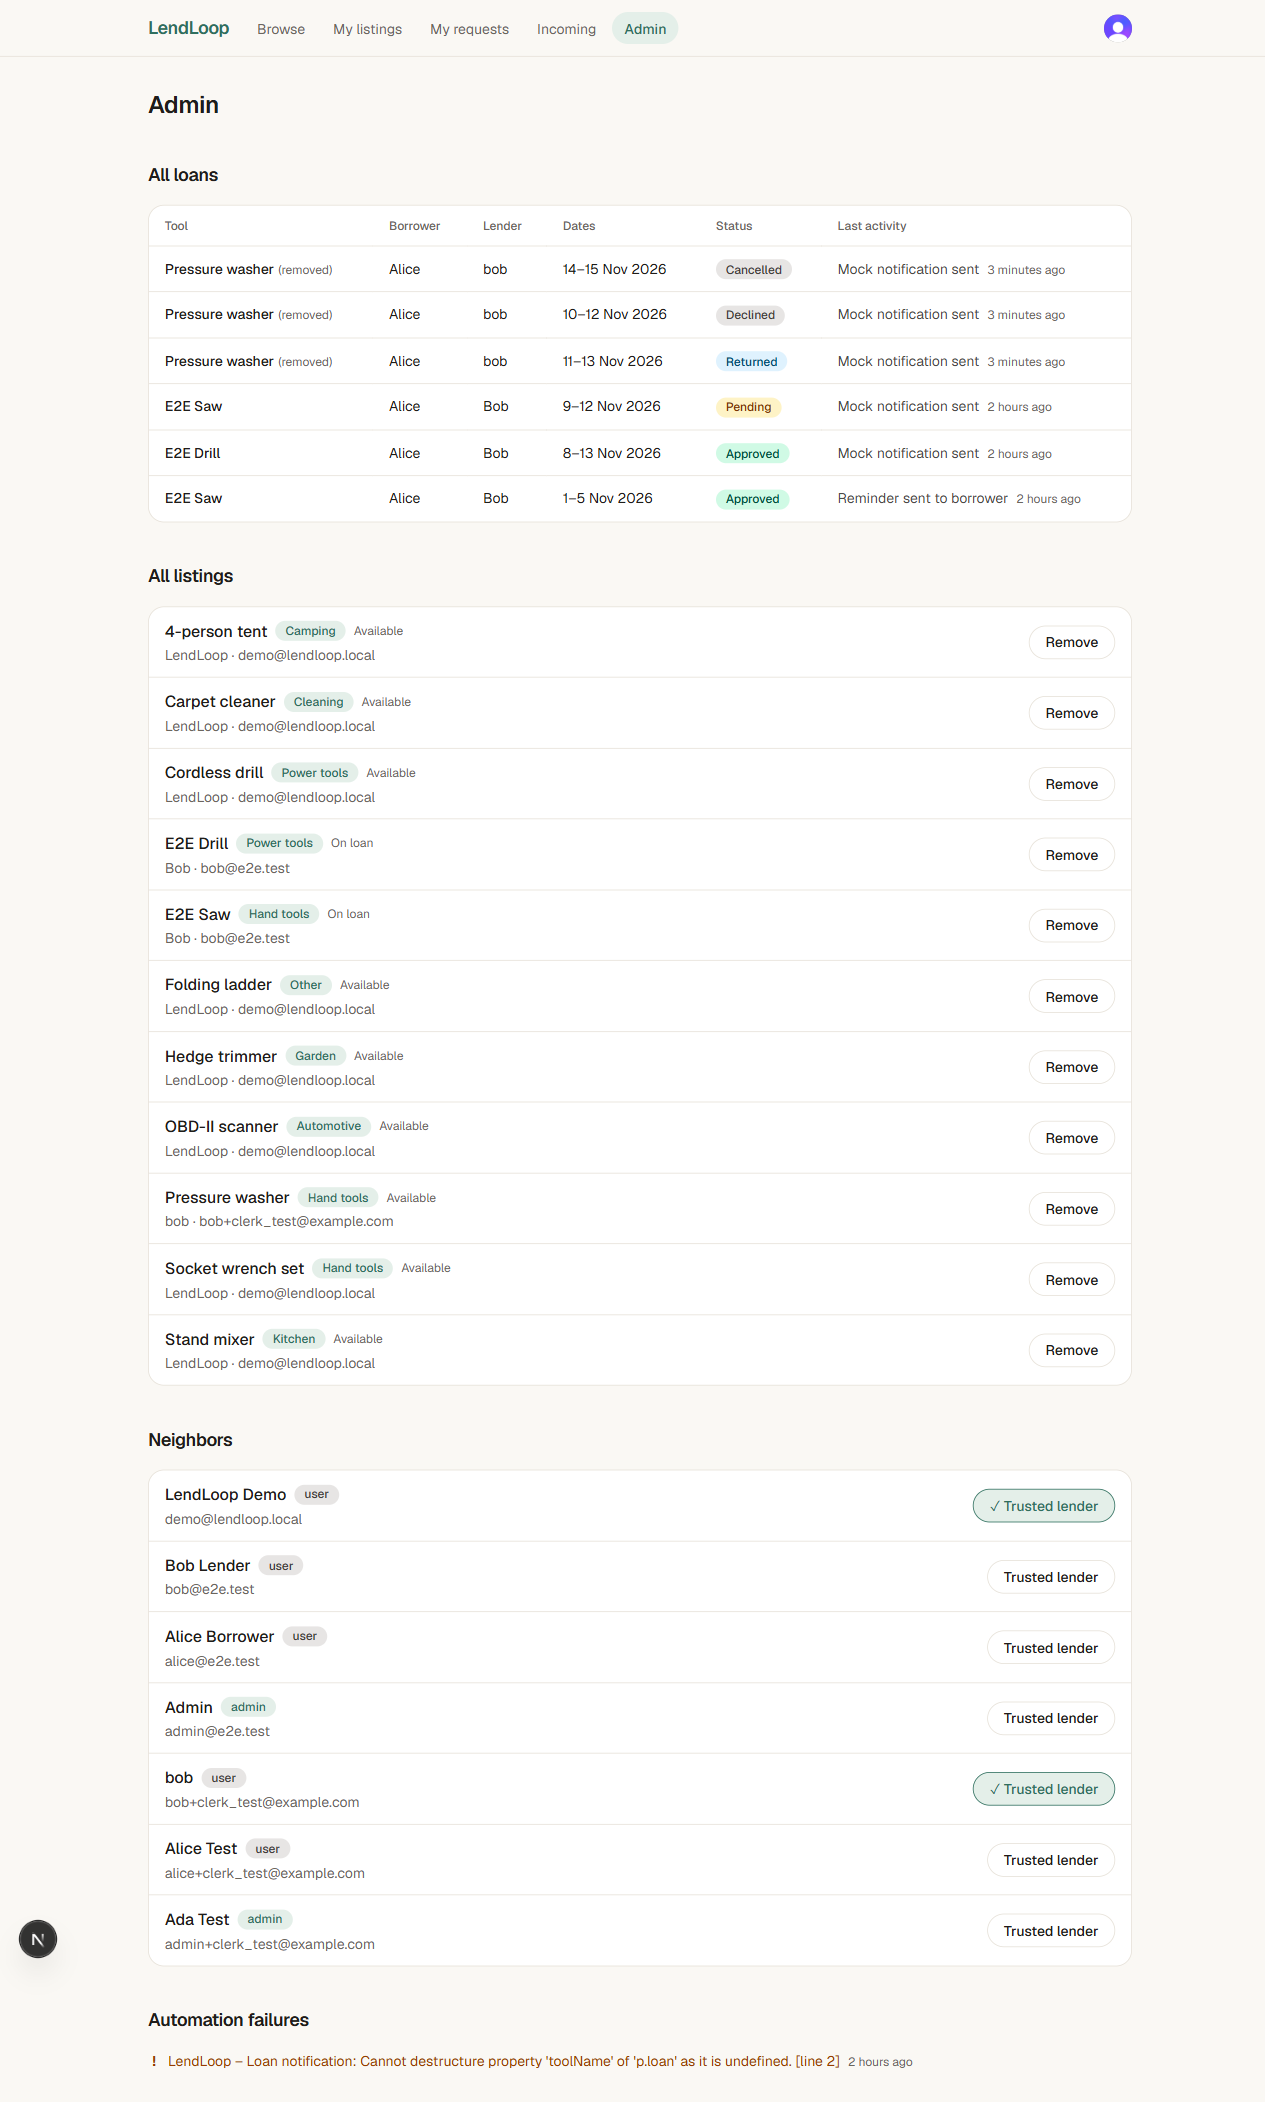
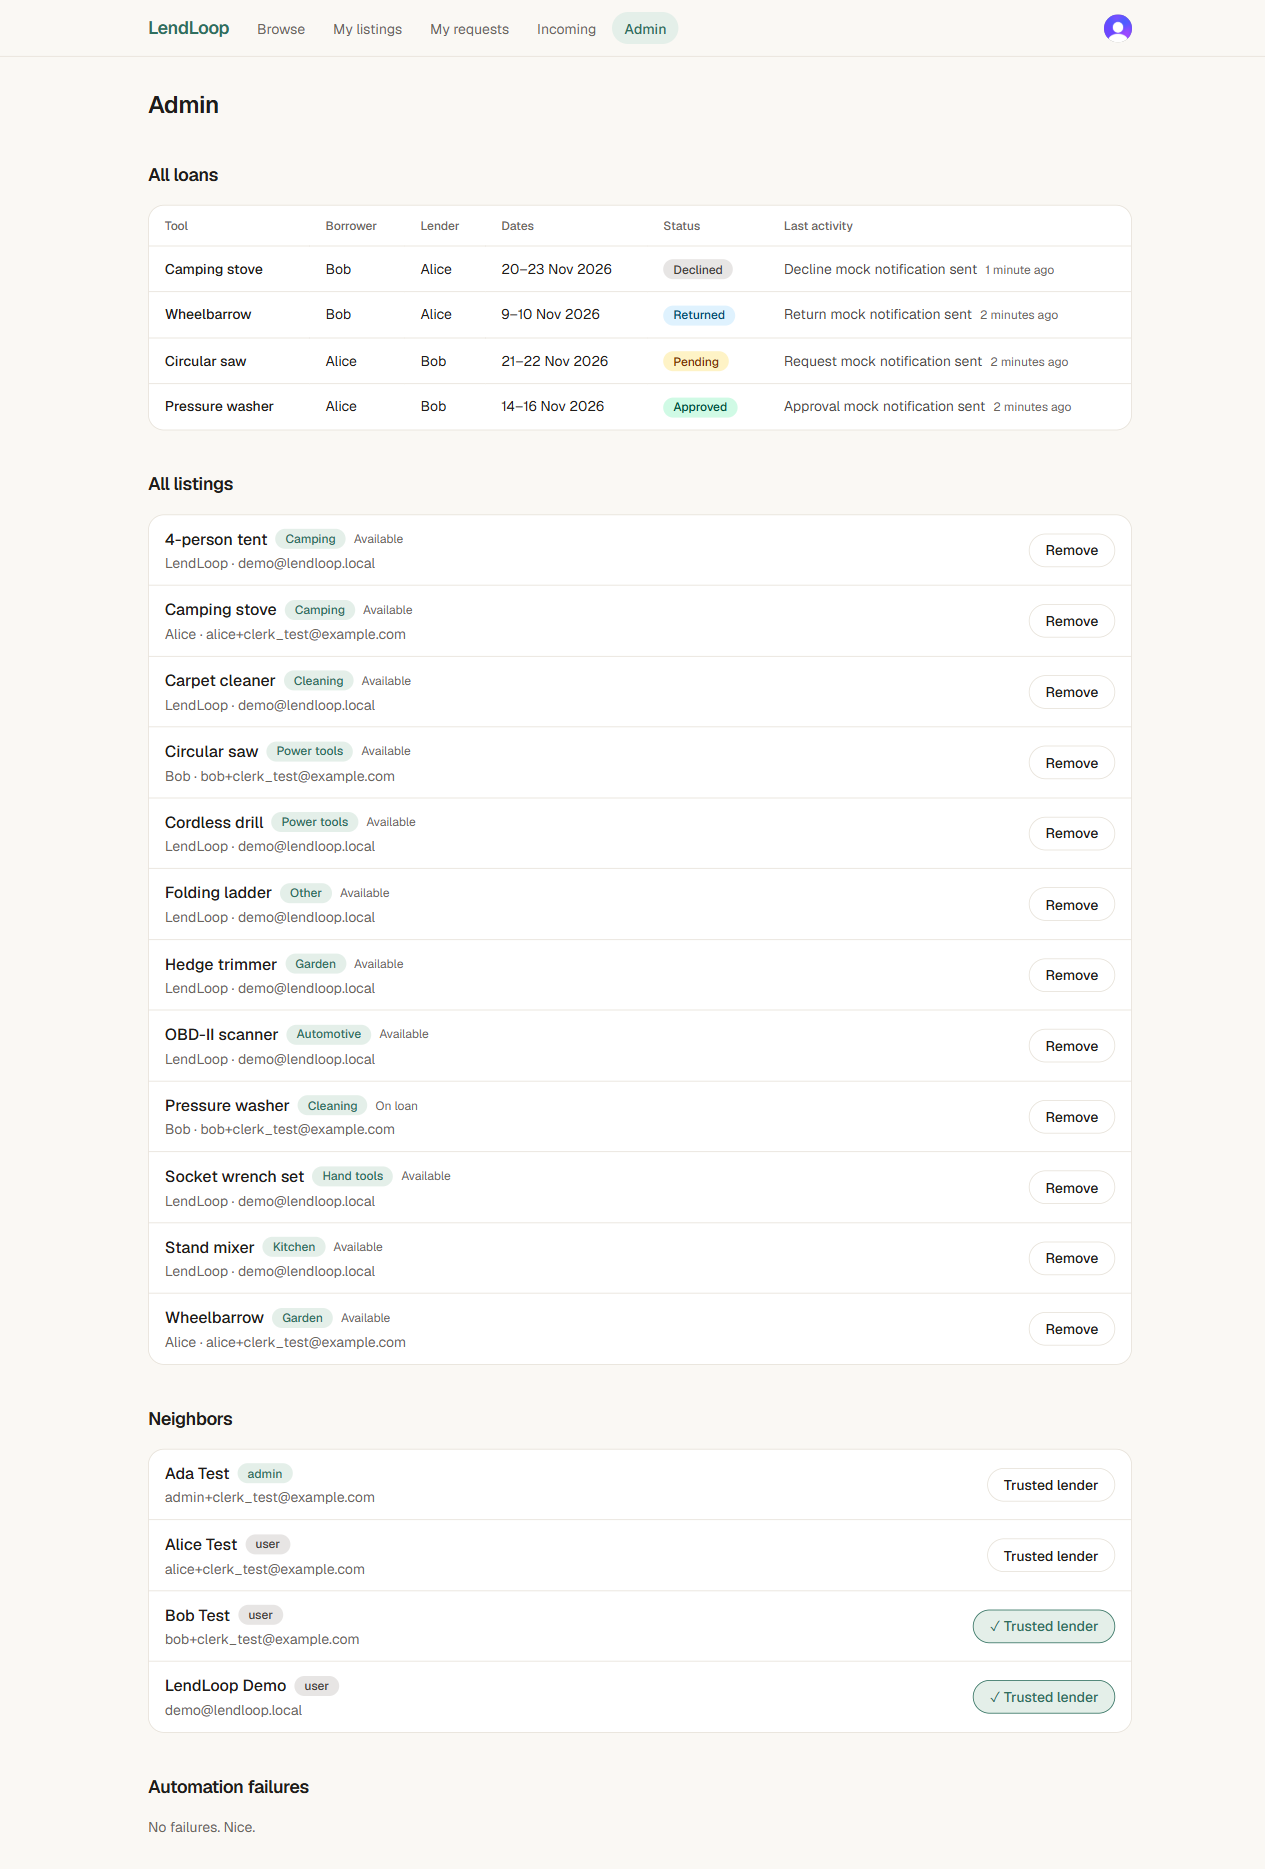
docs: retake README screenshots from clean demo data and add the public page

diff --git a/README.md b/README.md
@@ -11,6 +11,8 @@ This is a take-home for Fluence. The assignment text is in [`docs/assignment.md`
 doc this README is built from is [`docs/superpowers/specs/2026-11-07-lendloop-design.md`](docs/superpowers/specs/2026-11-07-lendloop-design.md).
 Where the two differ, this README describes what the code does.
 
+![Public page: the tagline, an example loan tag, and the tools free to borrow (name and category only)](docs/screenshots/public.png)
+
 ![Browse board with availability, category filter and Trusted lender badges](docs/screenshots/browse.png)
 
 ![Incoming requests with the automation activity timeline](docs/screenshots/incoming.png)
